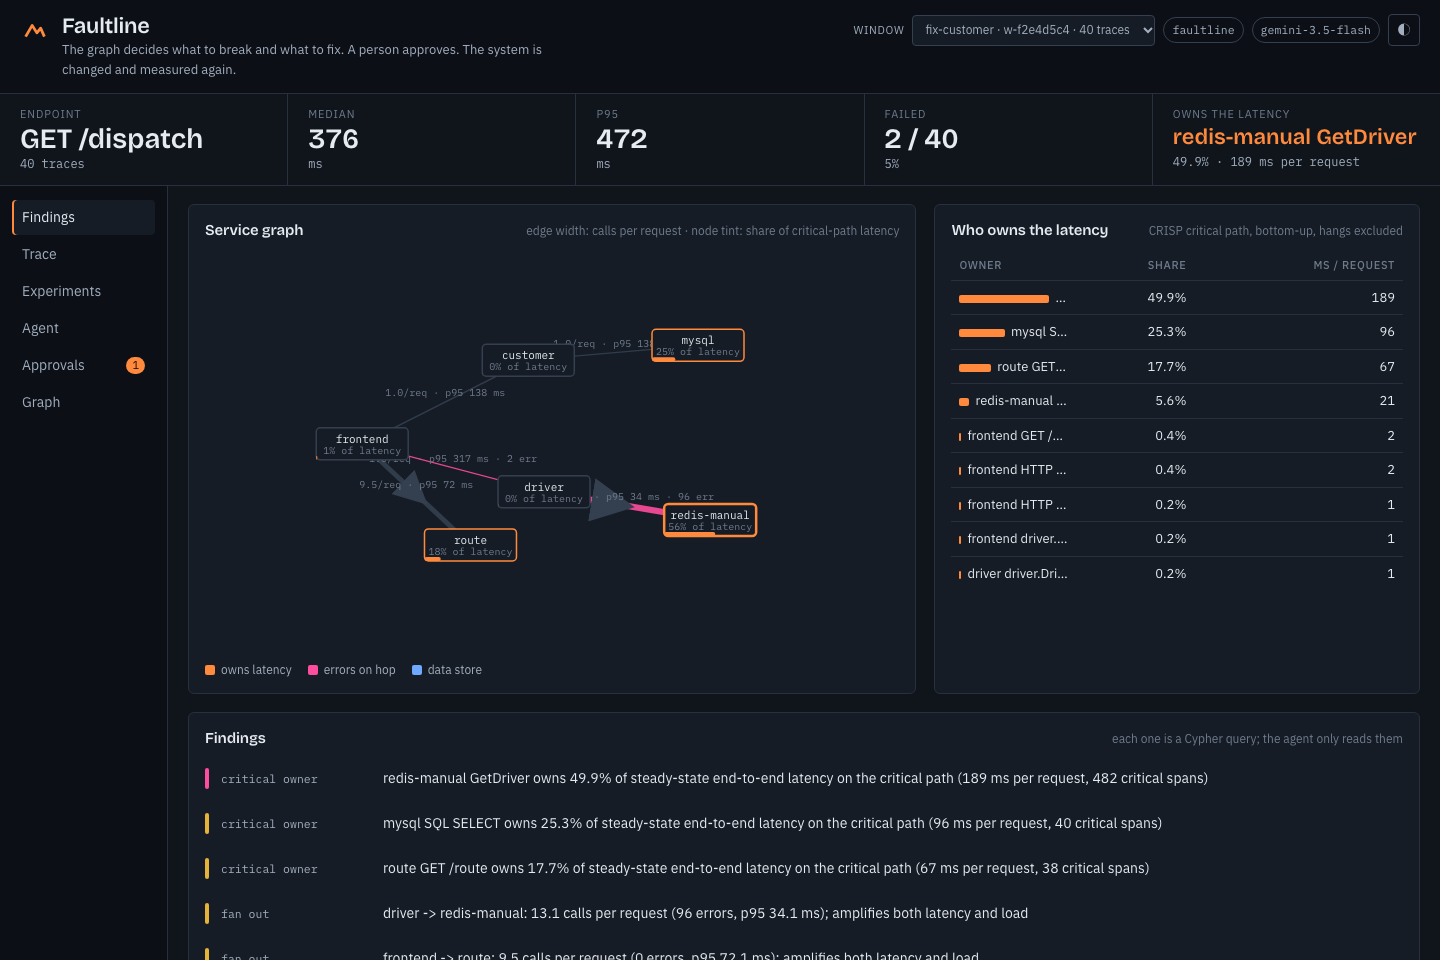
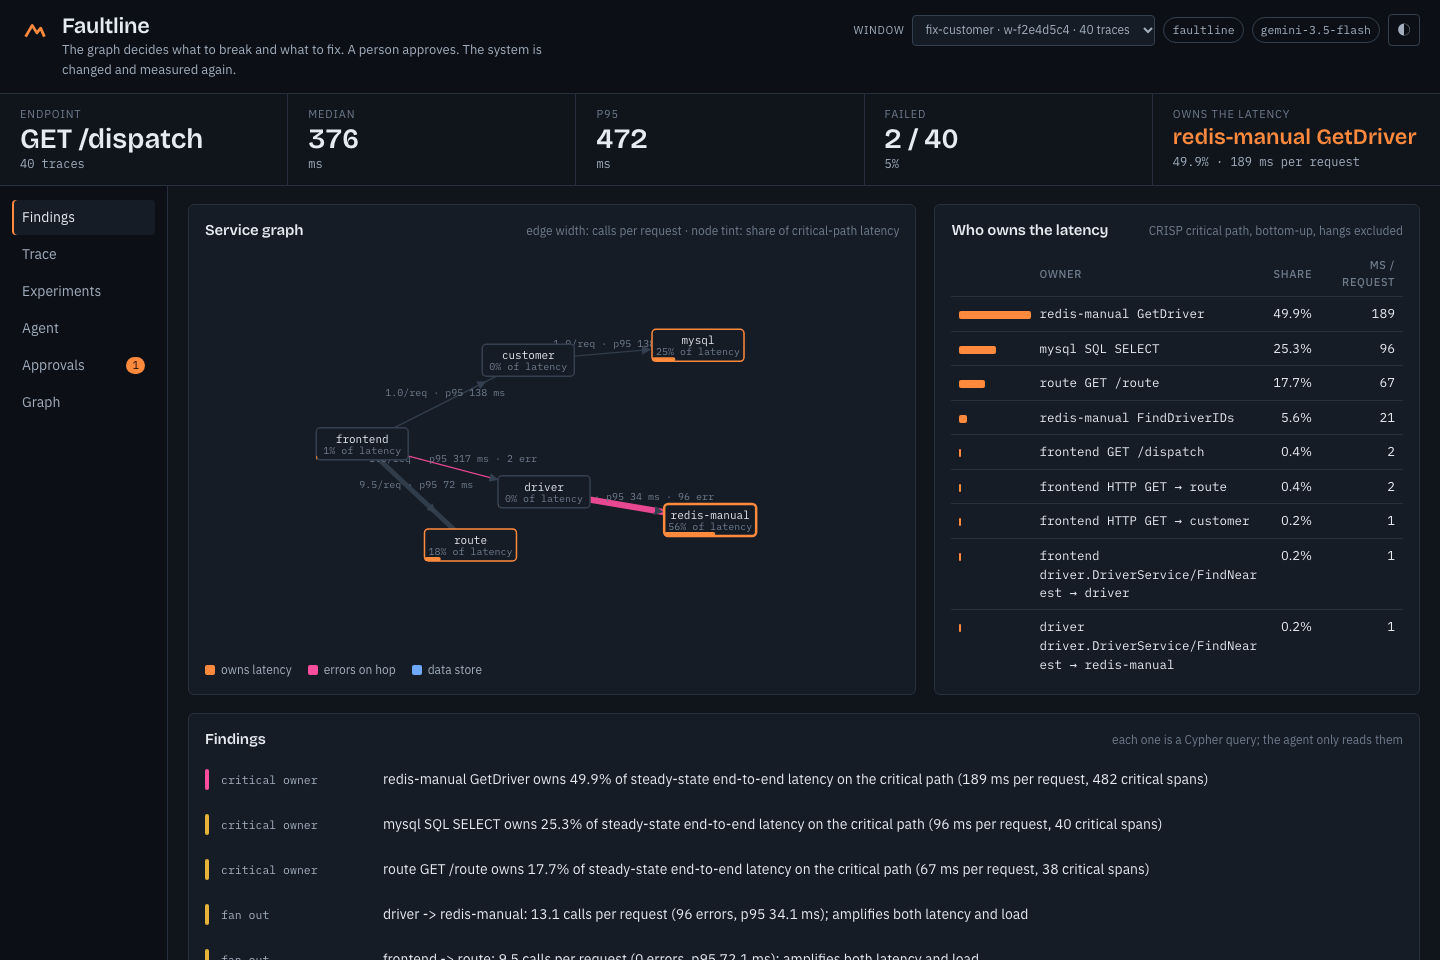
Console polish: owners table, arrowheads, panel alignment; dark screenshots

diff --git a/web/app.js b/web/app.js
@@ -74,7 +74,7 @@ async function loadOverview() {
   $("#s-failed").textContent = h.traces ? `${h.failed} / ${h.traces}` : "—"; $("#s-failrate").textContent = h.traces ? pct(h.fail_rate) : "";
   $("#s-owner").textContent = top ? label(top) : "—"; $("#s-owner-share").textContent = top ? `${top.share_pct}% · ${fmt(top.per_request_ms)} ms per request` : "";
   const max = top ? top.share_pct : 1;
-  $("#owners tbody").innerHTML = o.owners.slice(0, 9).map((x) => `<tr><td title="${esc(label(x))}"><span class="bar" style="width:${Math.max(2, 90 * x.share_pct / max)}px"></span>${esc(label(x))}</td><td class="num">${x.share_pct}%</td><td class="num">${fmt(x.per_request_ms)}</td></tr>`).join("");
+  $("#owners tbody").innerHTML = o.owners.slice(0, 9).map((x) => `<tr><td class="barcell"><span class="bar" style="width:${Math.max(2, 72 * x.share_pct / max)}px"></span></td><td>${esc(label(x))}</td><td class="num">${x.share_pct}%</td><td class="num">${fmt(x.per_request_ms)}</td></tr>`).join("");
   $("#findings-list").innerHTML = o.findings.map((f) => `<li class="${f.severity}"><span class="stripe"></span><span class="kind">${esc(f.kind.replace(/_/g, " "))}</span><span class="text">${esc(f.detail)}</span></li>`).join("") || `<li class="empty">No findings in this window.</li>`;
   $("#exposure tbody").innerHTML = o.exposure.map((e) => `<tr><td><b>${esc(e.store)}</b> <span class="hint">${esc(e.store_kind)}</span></td><td class="mono">${esc(e.path)}</td><td class="mono">${e.protocols.map((p) => esc(p || "?")).join(" / ")}</td><td class="num">${e.calls_per_request_into_store}</td></tr>`).join("") || `<tr><td colspan="4" class="empty">No data store reached from the edge in this window.</td></tr>`;
   $("#guardrails tbody").innerHTML = o.guardrails.map((g) => `<tr><td class="mono">${esc(g.hop)}</td><td>${esc(g.kind)}</td><td class="mono">${esc(g.value)}</td><td>${esc(g.evidence)}</td><td>${g.priority === "high" && g.kind === "timeout" ? `<button class="btn small" data-propose-guardrail="${esc(g.hop)}" ${state.meta.public ? "disabled" : ""}>Propose</button>` : ""}</td></tr>`).join("");
@@ -97,7 +97,7 @@ function drawGraph(o) {
   const ember = css("--ember"), slate = css("--slate"), crit = css("--crit"), store = css("--store"), panel = css("--panel"), line2 = css("--line-2");
   const sim = d3.forceSimulation(nodes).force("link", d3.forceLink(links).id((d) => d.id).distance(130)).force("charge", d3.forceManyBody().strength(-700))
     .force("center", d3.forceCenter(W / 2, H / 2)).force("x", d3.forceX((d) => d.edge ? W * 0.18 : d.store ? W * 0.82 : W / 2).strength(0.25)).force("y", d3.forceY(H / 2).strength(0.05));
-  svg.append("defs").append("marker").attr("id", "arrow").attr("viewBox", "0 -4 8 8").attr("refX", 22).attr("markerWidth", 7).attr("markerHeight", 7).attr("orient", "auto")
+  svg.append("defs").append("marker").attr("id", "arrow").attr("viewBox", "0 -4 8 8").attr("refX", 50).attr("markerWidth", 9).attr("markerHeight", 9).attr("markerUnits", "userSpaceOnUse").attr("orient", "auto")
     .append("path").attr("d", "M0,-4L8,0L0,4").attr("fill", line2);
   const link = svg.append("g").selectAll("line").data(links).join("line").attr("stroke", (d) => d.errors ? crit : line2).attr("stroke-width", (d) => 1 + Math.min(d.per_trace, 14) / 2.5).attr("marker-end", "url(#arrow)").attr("stroke-opacity", 0.9);
   const elabel = svg.append("g").selectAll("text").data(links).join("text").attr("class", "edge-label").attr("text-anchor", "middle").text((d) => `${fmt(d.per_trace, 1)}/req · p95 ${fmt(d.p95_ms)} ms${d.errors ? ` · ${d.errors} err` : ""}`);

diff --git a/web/styles.css b/web/styles.css
@@ -76,8 +76,8 @@ textarea { width: 100%; font-family: var(--mono); font-size: 12.5px; resize: ver
 .rail a:hover { color: var(--fg); background: var(--panel); }
 .rail a.active { color: var(--fg); background: var(--panel); box-shadow: inset 2px 0 0 var(--ember); }
 .count { font-family: var(--mono); font-size: 11px; background: var(--ember); color: var(--ember-ink); border-radius: 999px; padding: 0 6px; }
-main { padding-block: 18px; padding-left: 20px; padding-right: max(20px, env(safe-area-inset-right, 0px)); display: grid; gap: 18px; min-width: 0; }
-.view { display: grid; gap: 18px; }
+main { align-content: start; padding-block: 18px; padding-left: 20px; padding-right: max(20px, env(safe-area-inset-right, 0px)); display: grid; gap: 18px; min-width: 0; }
+.view { display: grid; gap: 18px; align-content: start; }
 .two { display: grid; grid-template-columns: minmax(0, 3fr) minmax(0, 2fr); gap: 18px; }
 .panel { background: var(--panel); border: 1px solid var(--line); border-radius: 6px; padding: 14px 16px; min-width: 0; display: grid; gap: 10px; align-content: start; }
 .panel-head { display: flex; justify-content: space-between; align-items: baseline; gap: 12px; flex-wrap: wrap; }
@@ -93,9 +93,9 @@ td { padding: 7px 8px; border-bottom: 1px solid var(--line); vertical-align: top
 tr:last-child td { border-bottom: 0; }
 td.mono, .mono { font-family: var(--mono); font-size: 12.5px; }
 .table-wrap { overflow-x: auto; }
-.bar { display: inline-block; height: 8px; background: var(--ember); border-radius: 2px; vertical-align: middle; margin-right: 6px; }
+.bar { display: inline-block; height: 8px; background: var(--ember); border-radius: 2px; vertical-align: middle; }
 .bar.slate { background: var(--slate); }
-.owners td:first-child { max-width: 0; overflow: hidden; text-overflow: ellipsis; white-space: nowrap; }
+.owners .barcell { width: 80px; padding-right: 0; } .owners td:nth-child(2) { font-family: var(--mono); font-size: 12.5px; overflow-wrap: anywhere; }
 
 .findings { list-style: none; margin: 0; padding: 0; display: grid; gap: 8px; }
 .findings li { display: grid; grid-template-columns: 4px auto minmax(0, 1fr); gap: 12px; align-items: start; padding: 8px 10px 8px 0; }

diff --git a/web/index.html b/web/index.html
@@ -58,7 +58,7 @@
         </div>
         <div class="panel">
           <div class="panel-head"><h2>Who owns the latency</h2><span class="hint">CRISP critical path, bottom-up, hangs excluded</span></div>
-          <table class="owners" id="owners"><thead><tr><th>Owner</th><th class="num">share</th><th class="num">ms / request</th></tr></thead><tbody></tbody></table>
+          <table class="owners" id="owners"><thead><tr><th></th><th>Owner</th><th class="num">share</th><th class="num">ms / request</th></tr></thead><tbody></tbody></table>
         </div>
       </div>
       <div class="panel">
